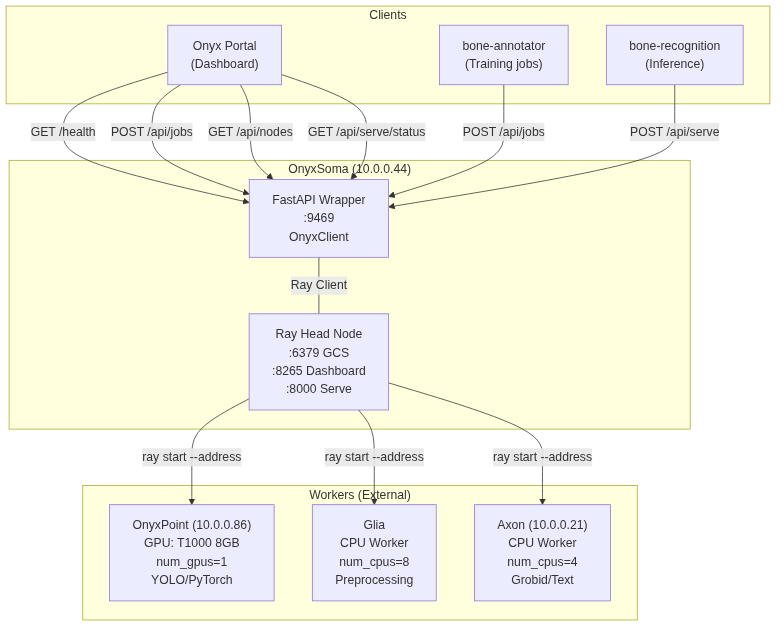
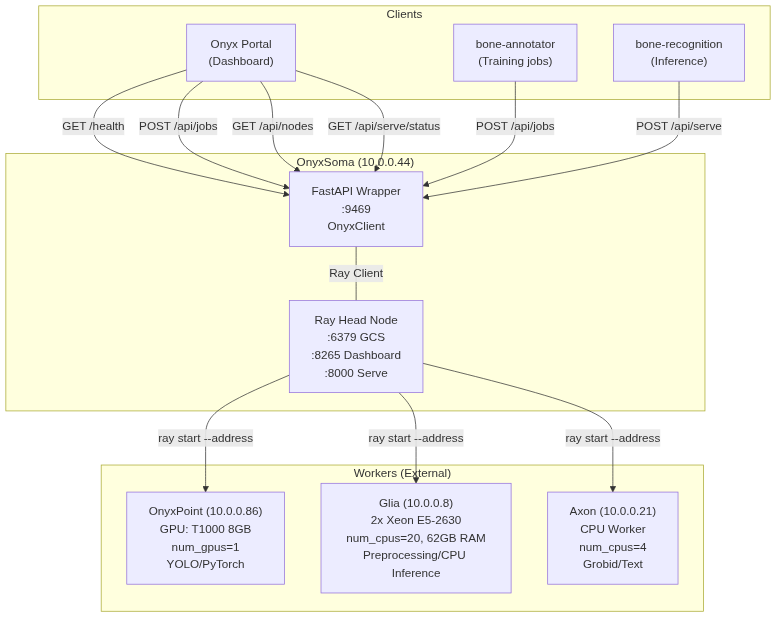
feat(ml-compute): mise à jour [deploy v0.1.35]
Generated with [Claude Code](https://claude.com/claude-code)

Changed region(s): [[0.0, 0.0, 0.9796, 1.0], [0.9796, 0.0304, 1.0, 0.1522]]

diff --git a/ARCHITECTURE.md b/ARCHITECTURE.md
@@ -13,11 +13,11 @@ OnyxSoma (10.0.0.44:9469) — Head Node
 ├── Ray Dashboard (:8265)
 └── Ray Serve (:8000)
 
-Workers distants (ray start --address=10.0.0.44:6379)
+Workers distants (ray start --address=10.0.0.44:6380)
 ├── OnyxPoint (10.0.0.86)
 │   └── GPU Worker (T1000 8GB, num_gpus=1)
-├── Glia
-│   └── CPU Worker (num_cpus=8, preprocessing)
+├── Glia (10.0.0.8)
+│   └── CPU Worker (2x Xeon E5-2630, num_cpus=20, 62GB RAM)
 └── Axon (10.0.0.21)
     └── CPU Worker (num_cpus=4, Grobid tasks)
 ```

diff --git a/DIAGRAM.md b/DIAGRAM.md
@@ -12,7 +12,7 @@ graph TB
 
     subgraph Workers["Workers (External)"]
         OP["OnyxPoint (10.0.0.86)<br/>GPU: T1000 8GB<br/>num_gpus=1<br/>YOLO/PyTorch"]
-        Glia["Glia<br/>CPU Worker<br/>num_cpus=8<br/>Preprocessing"]
+        Glia["Glia (10.0.0.8)<br/>2x Xeon E5-2630<br/>num_cpus=20, 62GB RAM<br/>Preprocessing/CPU Inference"]
         Axon["Axon (10.0.0.21)<br/>CPU Worker<br/>num_cpus=4<br/>Grobid/Text"]
     end
 

diff --git a/API.md b/API.md
@@ -138,7 +138,7 @@ Job stopped successfully
     {
       "node_id": "87654321-dcba",
       "node_name": "glia",
-      "node_ip": "10.0.0.45",
+      "node_ip": "10.0.0.8",
       "is_head": false,
       "resources": {
         "CPU": 8.0,
